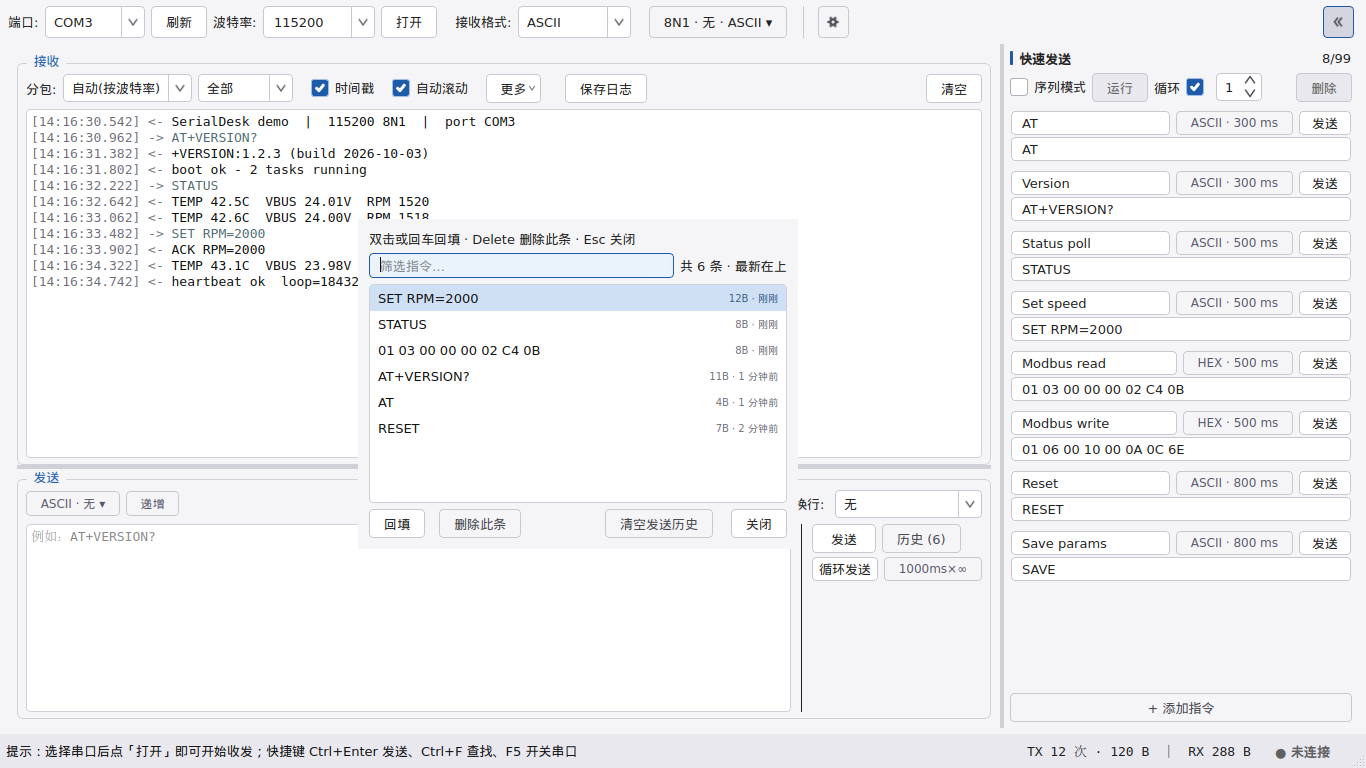
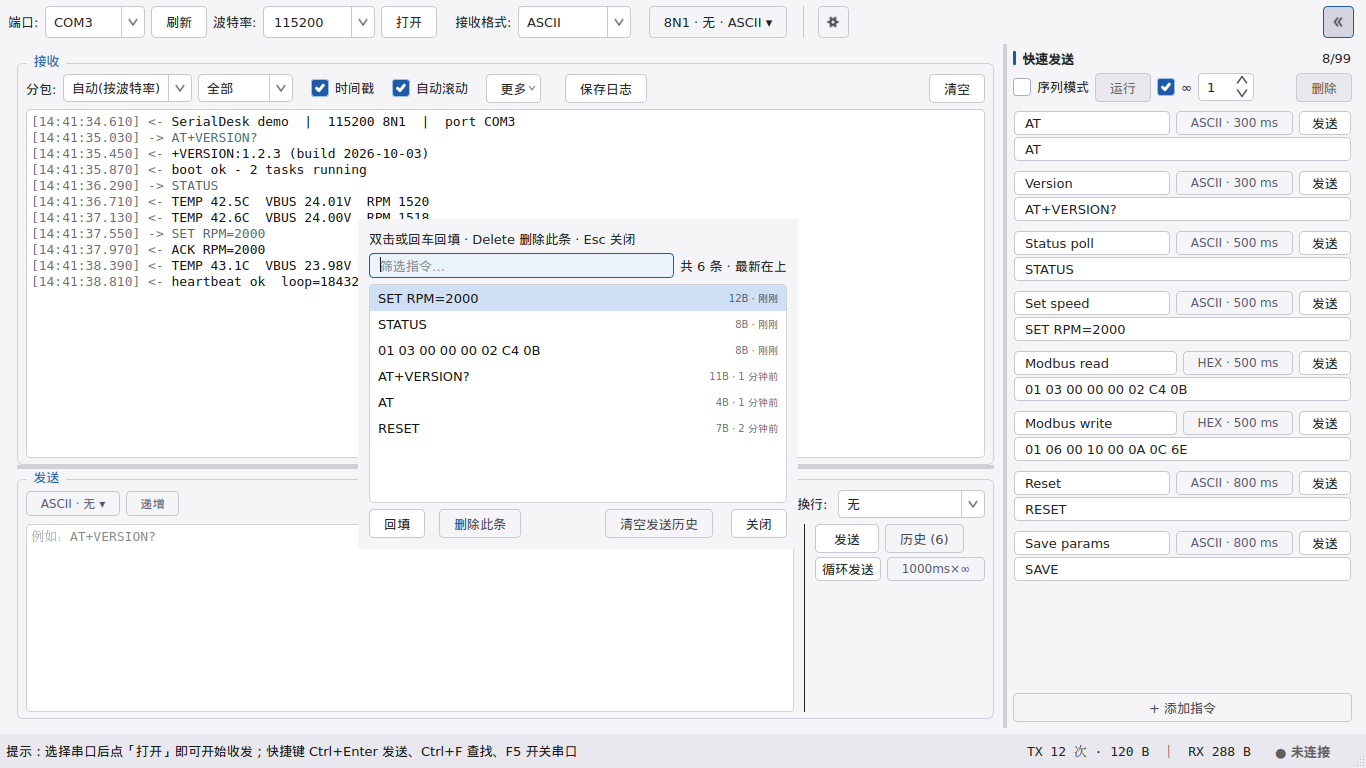
feat(tx,ui): U201 - byte hint beside Increment, narrower action column, ∞ glyph no longer clipped

Changed region(s): [[0.5842, 0.0625, 0.9224, 0.9375], [0.0307, 0.1562, 0.0922, 0.375], [0.8302, 0.9062, 0.8917, 0.9375]]

diff --git a/ui/regions.py b/ui/regions.py
@@ -428,6 +428,13 @@ def _build_increment_chip(win: MainWindow, tx_fmt_row: QHBoxLayout) -> None:
     menu.addAction(holder)
     win.inc_chip.setMenu(menu)
     tx_fmt_row.addWidget(win.inc_chip)
+    # U201 (Andy): the byte hint sits right of Increment - it describes the payload the
+    # input box holds. The app stylesheet drives the font, so the smaller size is asked
+    # for by object name (QLabel#payloadHint) instead of a QFont QSS would override.
+    win.tx_size_lbl = QLabel("")
+    win.tx_size_lbl.setToolTip(tr("tx.payload.tip"))
+    win.tx_size_lbl.setObjectName("payloadHint")
+    tx_fmt_row.addWidget(win.tx_size_lbl)
 
 
 def _build_text_decorations(win: MainWindow) -> QWidget:
@@ -561,13 +568,8 @@ def _build_action_column(win: MainWindow) -> QWidget:
     win.history_btn.clicked.connect(win._show_history)
     top_row.addWidget(win.history_btn)
     top_row.addStretch(1)
-    # U121: the payload hint sits with the actions it describes
-    win.tx_size_lbl = QLabel("")
-    win.tx_size_lbl.setToolTip(tr("tx.payload.tip"))
-    # the app stylesheet drives the widget font, so the smaller size is asked for
-    # by object name (QLabel#payloadHint) instead of a QFont that QSS would override
-    win.tx_size_lbl.setObjectName("payloadHint")
-    top_row.addWidget(win.tx_size_lbl)
+    # U201 (Andy): the payload hint moved next to Increment (see _build_increment_chip),
+    # so this column is no longer stretched by it and its width goes to the input box.
     act_col.addLayout(top_row)
 
     bottom_row = QHBoxLayout()

diff --git a/ui/quick_send_panel.py b/ui/quick_send_panel.py
@@ -206,16 +206,15 @@ class QuickSendPanel(QWidget):
         self.seq_btn.setEnabled(False)
         self.seq_btn.clicked.connect(self.toggle_sequence)
         seq_row.addWidget(self.seq_btn)
-        # U185: loop count right after Run (0 = endless), then the sent counter, which
-        # is one font step smaller than the body text (see QLabel#qsSeqSent).
-        self._seq_loops_lbl = QLabel(tr("qs.loops"))
-        seq_row.addWidget(self._seq_loops_lbl)
+        # U185: loop count right after Run, then the sent counter, which is one font step
+        # smaller than the body text (see QLabel#qsSeqSent).
         # 2026-10-03 (Andy): "0 = endless" was a magic value and he rightly called it out.
         # The count is a plain 1..999 now; unlimited is this explicit switch (default on).
+        # The old "loops" caption was dropped: it was the width that paid for the switch, and
+        # the tooltips carry the meaning (the glyph needs ~34 px; a fixed 24 px clipped it).
         self.seq_endless = QCheckBox("\u221e")
         self.seq_endless.setToolTip(tr("qs.loops.endless.tip"))
         self.seq_endless.setChecked(True)
-        self.seq_endless.setFixedWidth(24)          # exactly the 24 px target floor
         seq_row.addWidget(self.seq_endless)
         self.seq_loops = QSpinBox()
         self.seq_loops.setRange(1, 999)

diff --git a/ui/theme.py b/ui/theme.py
@@ -22,7 +22,7 @@ if TYPE_CHECKING:
 _DARK_QSS_TEMPLATE = """
 QMainWindow { background: $bg_base; }
 QDialog { background: $bg_base; }
-QLabel#payloadHint { font-size: $fs_small; }
+QLabel#payloadHint { font-size: $fs_small; color: $accent; }   /* U201: the live byte count reads as info, not as body text */
 QFrame#vSep { background: $border_muted; }
 QWidget { color: $text_primary; font-size: $fs_body; }
 QGroupBox {
@@ -176,7 +176,7 @@ def _render(template: str, tokens: dict[str, str]) -> str:
 _LIGHT_QSS_TEMPLATE = """
 QMainWindow { background: $bg_base; }
 QDialog { background: $bg_base; }
-QLabel#payloadHint { font-size: $fs_small; }
+QLabel#payloadHint { font-size: $fs_small; color: $accent; }   /* U201: the live byte count reads as info, not as body text */
 QFrame#vSep { background: $border_sep; }
 QWidget { color: $text_primary; font-size: $fs_body; }
 QGroupBox {

diff --git a/app/i18n.py b/app/i18n.py
@@ -608,7 +608,7 @@ STRINGS: dict[str, dict[str, str]] = {
     "qs.seq.done": {"zh": "序列发送完成", "en": "Sequence finished"},
     "qs.seq.done.n": {"zh": "序列发送完成（{n} 轮）", "en": "Sequence finished ({n} rounds)"},
     "qs.loops": {"zh": "循环", "en": "Loops"},
-    "qs.loops.tip": {"zh": "序列整体重复几轮；0 = 不限轮数（显示 ∞，手动停止）",
+    "qs.loops.tip": {"zh": "序列整体重复几轮；勾选左侧 ∞ 表示不限轮数（一直循环，手动停止）",
                      "en": "How many rounds to repeat the whole sequence; 0 = unlimited (shows ∞)"},
     "qs.seq.none": {"zh": "没有可发送的指令", "en": "No commands to send"},
 }

diff --git a/app/__init__.py b/app/__init__.py
@@ -1,3 +1,3 @@
 """SerialDesk application package."""
 
-__version__ = "1.9.7"
+__version__ = "1.9.8"

diff --git a/README.md b/README.md
@@ -260,7 +260,8 @@ A cross-platform serial debugging tool for embedded, motor-control and industria
 | **v1.9.4** | 删除动作可诊断化：没选中就点删除时明确提示“没有选中任何行”；并按“按下时锁定的选中行”兜底，避免按下瞬间丢失高亮导致静默失效 | ✅ 已完成 |
 | **v1.9.5** | 删除加二次确认：点删除弹出“确认删除 N 行”对话框（默认按钮为取消，防误按回车），确认后才删除；待删行在弹窗打开前锁定；仍保留 3 秒撤销 | ✅ 已完成 |
 | **v1.9.6** | 快速发送循环次数默认改为 ∞；修复循环次数上下箭头点不动、数字被裁的问题（宽度算错）；spinbox/combo 保留 28px 下限；README 术语与乱码修正 | ✅ 已完成 |
-| **v1.9.7** | “不限次数”改为显式 ∞ 开关（序列轮数与发送区循环次数均为 1..N + ∞ 勾选），不再用 0 当无限；发送区芯片在不限时显示 ∞ | ✅ 本次发布 |
+| **v1.9.7** | “不限次数”改为显式 ∞ 开关（序列轮数与发送区循环次数均为 1..N + ∞ 勾选），不再用 0 当无限；发送区芯片在不限时显示 ∞ | ✅ 已完成 |
+| **v1.9.8** | “将发送 N 字节”提示移到「递增」右侧并改为信息色；动作列收窄、宽度让给输入框；修复 ∞ 字被裁（固定 24px 小于字形 34px）；20 张 README 截图按新布局重生 | ✅ 本次发布 |
 | **下一步** | **声明式协议解析（B4-P1）**：免脚本的字段化解析（帧头 / 字段类型 / 校验 + Modbus RTU / AT / NMEA 模板） | 🚧 下一项 |
 
 ## 快速开始
@@ -441,7 +442,7 @@ At the limit: with Wrap on it restarts from the start value, with Wrap off it st
 
 ### Progress
 
-- **Released**: 86 version tags (latest **v1.9.7**), 181 commits, 187 automated tests green
+- **Released**: 87 version tags (latest **v1.9.8**), 181 commits, 187 automated tests green
 - **Done**: the full serial I/O path (HEX/ASCII, framing, timestamps, checksums, logging, send history, auto-reply, auto-reconnect), quick send (sequences, repeat, `{i}` auto-increment, named commands with notes), receive enhancements (keyword highlight, view filter, column HEX, copy semantics), Chinese + English UI with dark/light themes, and the Windows installer and portable zip
 - **To do**: 33 items (protocol decoding layer, waveform view, toolbox, multi-port, terminal mode and more - the full list lives in the development task document)
 
@@ -484,7 +485,8 @@ At the limit: with Wrap on it restarts from the start value, with Wrap off it st
 | **v1.9.4** | The delete action is diagnosable: pressing Delete with nothing armed now says "nothing selected"; it also honours what was armed when the button went down, so a press that drops the highlight cannot silently do nothing | ✅ Done |
 | **v1.9.5** | Deleting quick-send rows asks first: a confirmation dialog ("delete the N selected rows?") with Cancel as the default button; the rows are captured before the dialog opens; the 3-second undo stays | ✅ Done |
 | **v1.9.6** | The quick-send loop count defaults to ∞; its steppers work again (the width was computed too tightly, clipping the number and the arrows); spin boxes and combos keep a 28 px floor; README wording and a corrupted character fixed | ✅ Done |
-| **v1.9.7** | "Unlimited" became an explicit ∞ switch for both the sequence rounds and the send-area repeat count (plain 1..N fields), instead of treating a count of 0 as endless; the send-area chip shows ∞ while the switch is on | ✅ This release |
+| **v1.9.7** | "Unlimited" became an explicit ∞ switch for both the sequence rounds and the send-area repeat count (plain 1..N fields), instead of treating a count of 0 as endless; the send-area chip shows ∞ while the switch is on | ✅ Done |
+| **v1.9.8** | The "will send N bytes" hint moved next to Increment in the info colour; the action column narrowed and handed the width to the input box; the ∞ glyph is no longer clipped (24 px pinned vs a 34 px glyph); the 20 README shots were regenerated | ✅ This release |
 | **Next** | **Declarative protocol decoding (B4-P1)**: script-free field parsing (frame header / field types / checksum + Modbus RTU / AT / NMEA templates) | 🚧 Next up |
 
 ### Quick start

diff --git a/CHANGELOG.md b/CHANGELOG.md
@@ -1,5 +1,22 @@
 # Changelog
 
+## [v1.9.8] - 2026-10-03
+
+### Changed
+
+- **The "will send N bytes" hint moved next to Increment** (Andy 2026-10-03): it describes the
+  payload the input box holds, so it sits with it now, in the info colour instead of body text.
+  The action column (Send / History / repeat) is narrower as a result and hands the width to the
+  input box.
+
+### Fixed
+
+- The ∞ switch shows its glyph in full: it was pinned to 24 px while the glyph needs 34, so the
+  character was clipped. It is sized naturally now; the redundant "loops" caption paid for the
+  width (the panel's minimum window width dropped to 1235 px as a side benefit).
+- README screenshots regenerated for the new send area (20 shots).
+
+
 ## [v1.9.7] - 2026-10-03
 
 ### Changed
